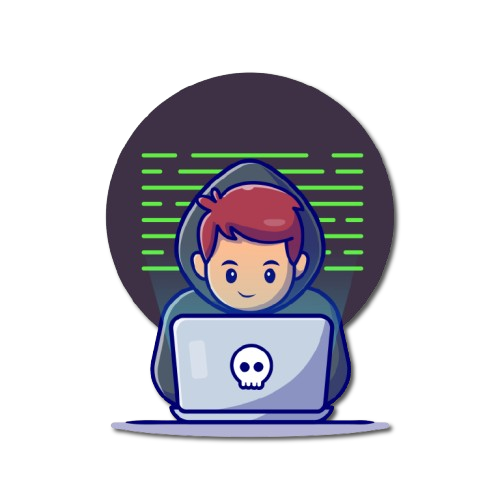
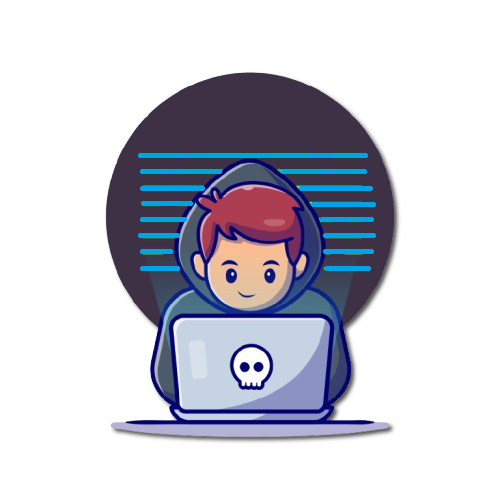
Changes in ui

Changed region(s): [[0.27, 0.3, 0.75, 0.54]]

diff --git a/Portfolio_Webpage/style.css b/Portfolio_Webpage/style.css
@@ -22,11 +22,25 @@ a{
     display: flex;
     justify-content: space-between;
     align-items: center;
-    z-index: 100%
+    z-index: 100;
+    visibility: hidden;
+    opacity: 0;
+    animation: show-content 1.5s linear forwards;
+    animation-delay: 1.2s;
+
+}
+
+@keyframes show-content {
+    100%{
+        visibility: visible;
+        opacity: 1;
+    }
 }
 .navbar .logo{
     font-size: 30px;
     font-weight: 700;
+    color: #4CC9FE;
+    
 }
 .navbar ul{
     display: flex;
@@ -43,23 +57,67 @@ a{
 }
 .navbar ul li:hover a,
 .navbar ul li.active a {
-    color: #7cf03d;
+    color: #4CC9FE;
 }
 .home{
     display: flex;
     align-items: center;
     height: 100vh;
+    gap: 50px;
     padding: 60px 9% 0;
     color: #fff;
+    visibility: hidden;
+    opacity: 0;
+    animation: show-content 1.5s linear forwards;
+    animation-delay: 1.8s;
+
 
 }
 .home-info h1{
     font-size: 57px;
 }
 .home-info h3{
+    display: inline-block;
     font-size: 29px;
     margin-top: 0px;
 }
+.home-info h3 span{
+    position: relative;
+    display: inline-block;
+    color: transparent;
+    -webkit-text-stroke: .7px #4CC9FE;
+    animation: display-text 16s linear infinite;
+    animation-delay: calc(-4s* var(--i));
+}
+
+@keyframes display-text{
+     25%,100%{
+        display: none;
+     }   
+}
+.home-info h3 span::before{
+    content: attr(data-text);
+    position: absolute;
+    width: 0%;
+    border-right: 2px solid #4CC9FE;
+    color: #4CC9FE;
+    white-space: nowrap;
+    overflow: hidden;
+    animation: fill-text 4s linear infinite;
+}
+@keyframes fill-text {
+    10%,
+    100%{
+        width: 0;
+    }
+
+    70%,
+    90%{
+        width: 100%;
+    }
+}
+
+
 .home-info p{
     font-size: 16px;
     margin: 10px 0 25px;
@@ -71,18 +129,18 @@ a{
 .btn{
    display: inline-block;
    padding: 10px 30px;
-   background-color: #7cf03d; 
-   border: 2px solid #7cf03d;
+   background-color: #4CC9FE; 
+   border: 2px solid #4CC9FE;
    border-radius: 40px;
-   box-shadow: 0 0 10px #7cf03d;
+   box-shadow: 0 0 10px #4CC9FE;
    font-size: 16px;
-   color: #1f242d;
+   color:#1f242d;
    font-weight: 600;
    transition: .5s;
 }
 .btn:hover{
     background: transparent;
-    color: #7cf03d;
+    color: #4CC9FE;
     box-shadow: none;
 }
 .home-info .btn-sci .sci {
@@ -91,17 +149,17 @@ a{
 .home-info .btn-sci .sci a{
     display: inline-flex;
     padding: 8px;
-    border: 2px solid #7cf03d;
+    border: 2px solid #4CC9FE;
     border-radius: 50%;
     font-size: 20px;
-    color: #7cf03d;
+    color: #4CC9FE;
     margin: 0 8px;
     transition: .5s;
 }
 .home-info .btn-sci .sci a:hover{
-    background: #7cf03d;
+    background: #4CC9FE;
     color: #1f242d;
-    box-shadow:0 0 10px #7cf03d;
+    box-shadow:0 0 10px #4CC9FE;
 }
 .home-img .img-box{
     position: relative;
@@ -121,7 +179,18 @@ a{
     position: absolute;
     width: 500px;
     height: 500px;
-    background: conic-gradient(transparent, transparent,transparent,#7cf03d);
+    background: conic-gradient(transparent, transparent,transparent,#4CC9FE);
+    transform: rotate(0deg);   
+    animation: rotate-border 10s linear infinite;
+}
+.home-img .img-box::after{
+    animation-delay: -5s;
+}
+
+@keyframes rotate-border {
+    100%{
+        transform: rotate(360deg);   
+    }
 
 }
 .home-img .img-box .img-item{

diff --git a/Portfolio_Webpage/index.html b/Portfolio_Webpage/index.html
@@ -34,7 +34,12 @@
     <section class="home">
         <div class="home-info">
             <h1>Sham Mahajan</h1>
-            <h3>I'm a Frontend Developer</h3>
+            <h3>I'm a 
+                <span style="--i:4" data-text="Frontend Developer">Frontend Developer</span>
+                <span style="--i:3" data-text="Backend Developer">Backend Developer</span>
+                <span style="--i:2" data-text="Designer">Designer</span>
+                <span style="--i:1" data-text="Blogger">Blogger</span>
+            </h3>
             <p>Lorem ipsum dolor sit, amet consectetur adipisicing elit. Cupiditate voluptatum optio ipsum harum dolores
                 dolorem incidunt esse magni fugiat error!</p>
               <div class="btn-sci">
@@ -43,7 +48,7 @@
                     <a href="#"><i class='bx bxl-github'></i></a>
                     <a href="#"><i class='bx bxl-linkedin' ></i></a>
                     <a href="#"><i class='bx bxl-instagram' ></i></a>
-                    <a href="#"><i class='bx' ><img src="icons8-check-mark-unscreen.gif" alt="" width="20"></i></a>
+                    <!-- <a href="#"><i class='bx' ><img src="icons8-check-mark-unscreen.gif" alt="" width="20"></i></a> -->
                     
                 </div>
               </div>  
